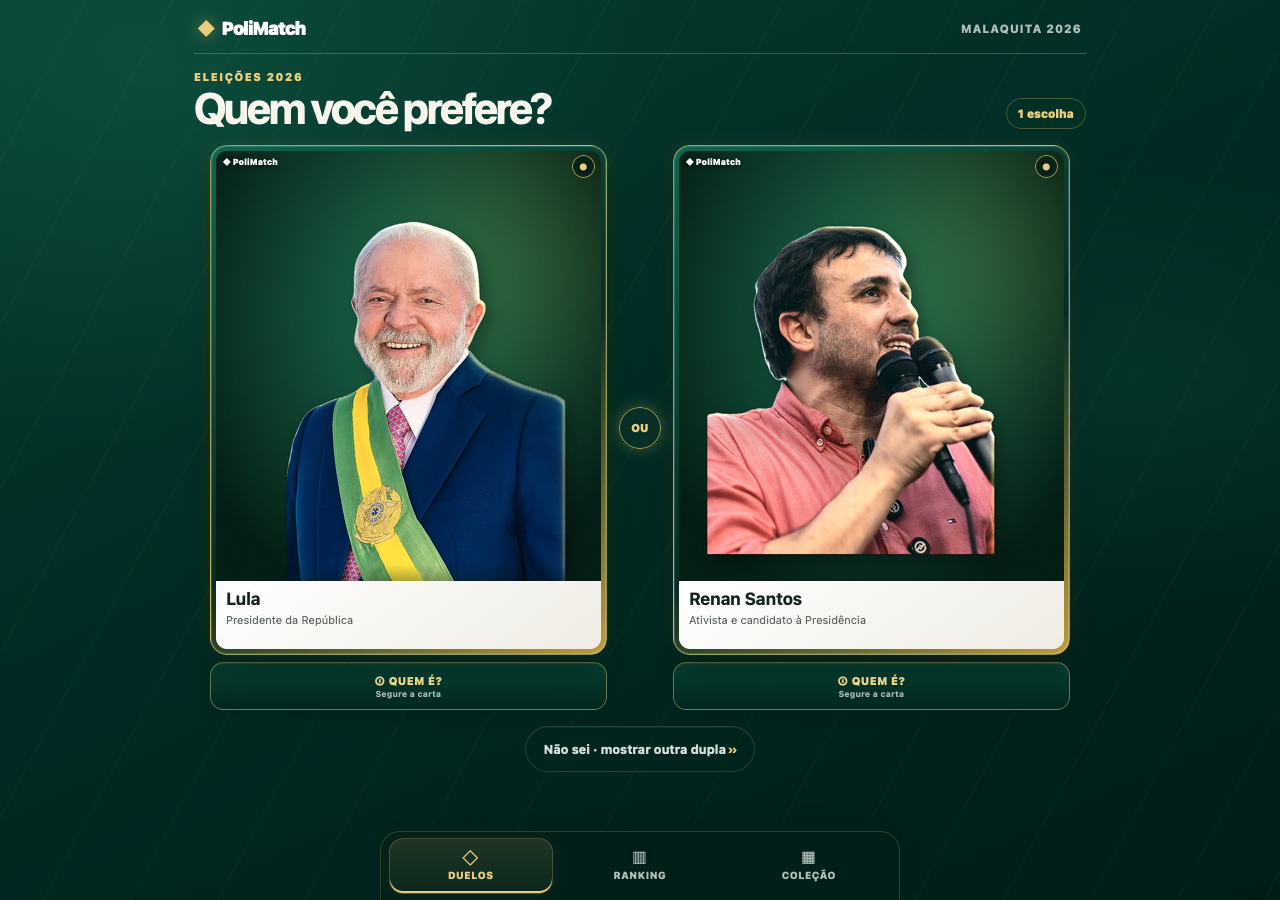
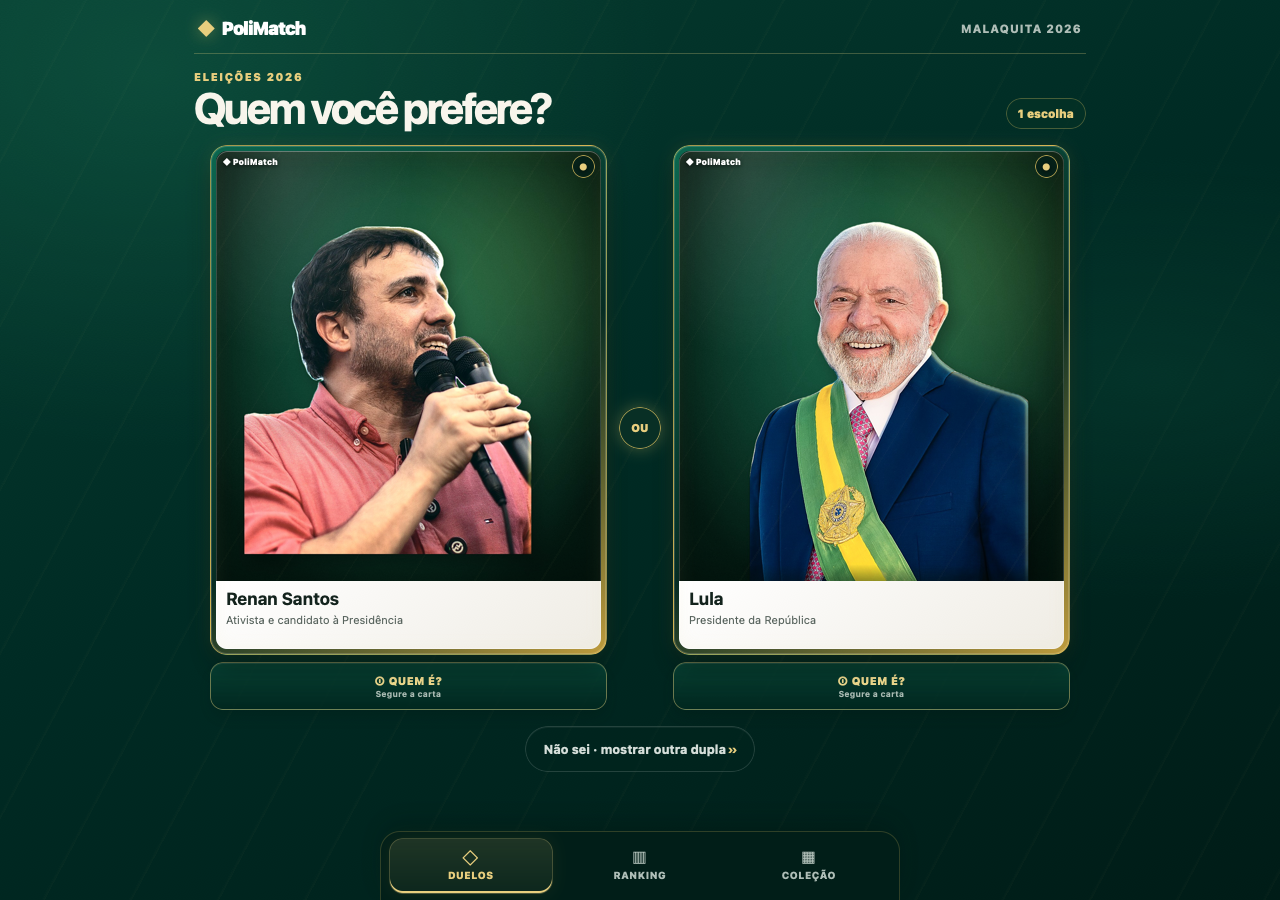
style: integrar retrato com atmosfera e verniz

diff --git a/app/src/styles.css b/app/src/styles.css
@@ -77,17 +77,22 @@ h1 { margin-bottom: 8px; font-size: clamp(2rem, 8vw, 2.8rem); line-height: 1; le
 .candidate-card.is-selected { transform: translateY(-4px) scale(1.015); border-color: #ffe88d; box-shadow: 0 20px 44px rgb(0 10 7 / 52%), 0 0 34px rgb(255 218 92 / 48%); }
 .candidate-card:disabled { cursor: wait; filter: saturate(.7) brightness(.82); transform: scale(.985); }
 .candidate-card.is-selected:disabled { filter: saturate(1.08) brightness(1.02); transform: translateY(-4px) scale(1.015); }
-.candidate-card::after { content: ""; position: absolute; inset: 5px; pointer-events: none; border: 1px solid rgb(255 255 255 / 18%); border-radius: 12px; }
-.card-brand, .card-rarity { position: absolute; z-index: 2; top: 11px; color: white; font-size: .52rem; font-weight: 900; text-shadow: 0 1px 5px rgb(0 0 0 / 70%); }
+.candidate-card::before { content: ""; position: absolute; z-index: 4; inset: 5px; pointer-events: none; border-radius: 12px; background: linear-gradient(112deg, transparent 4% 35%, rgb(255 255 255 / 3%) 39%, rgb(255 246 203 / 18%) 44%, rgb(255 255 255 / 4%) 49%, transparent 56% 100%), radial-gradient(ellipse at 18% 4%, rgb(255 255 255 / 18%), transparent 28%), repeating-linear-gradient(122deg, transparent 0 54px, rgb(232 206 126 / 2.8%) 55px 56px); background-position: 135% 0, 0 0, 0 0; background-size: 235% 100%, auto, auto; box-shadow: inset 0 1px rgb(255 255 255 / 24%), inset 0 -1px rgb(255 255 255 / 8%); opacity: .72; mix-blend-mode: screen; transition: background-position 500ms cubic-bezier(.22, 1, .36, 1), opacity 180ms ease; }
+.candidate-card:hover::before, .candidate-card.is-peeking::before { background-position: -20% 0, 0 0, 0 0; opacity: .9; }
+.candidate-card.is-selected::before { animation: varnish-confirm 640ms ease-out; }
+.candidate-card::after { content: ""; position: absolute; z-index: 5; inset: 5px; pointer-events: none; border: 1px solid rgb(255 255 255 / 18%); border-radius: 12px; box-shadow: inset 0 0 18px rgb(232 206 126 / 7%); }
+.card-brand, .card-rarity { position: absolute; z-index: 6; top: 11px; color: white; font-size: .52rem; font-weight: 900; text-shadow: 0 1px 5px rgb(0 0 0 / 70%); }
 .card-brand { left: 12px; }
 .card-rarity { right: 11px; width: 23px; height: 23px; display: grid; place-items: center; top: 9px; border: 1px solid rgb(231 199 98 / 75%); border-radius: 50%; color: var(--gold); background: rgb(2 31 24 / 78%); }
 .portrait { position: relative; min-height: 0; aspect-ratio: 4 / 5; overflow: hidden; display: grid; place-items: center; border-radius: 11px 11px 0 0; background: radial-gradient(circle at 50% 30%, #2f8d70, #063d30 72%); }
 .candidate-card .portrait { aspect-ratio: auto; }
+.candidate-card .portrait::after { content: ""; position: absolute; z-index: 2; inset: 0; pointer-events: none; background: radial-gradient(ellipse at 50% 48%, transparent 28%, rgb(2 55 41 / 7%) 50%, rgb(1 36 28 / 42%) 100%), linear-gradient(145deg, rgb(239 211 119 / 13%), transparent 27% 68%, rgb(0 25 19 / 24%)), repeating-linear-gradient(126deg, transparent 0 76px, rgb(232 206 126 / 3%) 77px 78px); box-shadow: inset 0 0 44px rgb(0 34 26 / 34%), inset 0 -22px 36px rgb(0 30 23 / 18%); mix-blend-mode: soft-light; }
 .portrait img { position: absolute; inset: 0; z-index: 1; width: 100%; height: 100%; display: block; object-fit: cover; object-position: center top; }
 .portrait-fallback { position: absolute; inset: 0; display: grid; place-items: center; font-size: clamp(2rem, 10vw, 4rem); font-weight: 950; color: rgb(255 255 255 / 50%); }
 .candidate-copy { position: relative; z-index: 1; display: block; min-height: 0; padding: 9px 10px; border-radius: 0 0 11px 11px; background: linear-gradient(145deg, #fff, #efece4); }
 .candidate-copy strong { display: block; font-size: clamp(.85rem, 3.5vw, 1.08rem); line-height: 1.05; }
 .candidate-copy span { display: block; margin-top: 5px; color: #58645e; font-size: .69rem; line-height: 1.3; }
+@keyframes varnish-confirm { 0% { background-position: 150% 0, 0 0, 0 0; opacity: .68; } 46% { opacity: 1; } 100% { background-position: -30% 0, 0 0, 0 0; opacity: .78; } }
 .profile-button { min-height: 48px; padding: 7px 8px; border: 1px solid rgb(232 206 126 / 46%); border-radius: 13px; background: linear-gradient(180deg, rgb(8 72 56 / 78%), rgb(1 39 31 / 88%)); color: #f6df91; box-shadow: inset 0 1px rgb(255 255 255 / 9%), 0 8px 18px rgb(0 17 13 / 18%); font-size: .68rem; font-weight: 900; letter-spacing: .04em; text-transform: uppercase; cursor: pointer; }
 .profile-button:hover { border-color: rgb(249 228 152 / 72%); box-shadow: inset 0 1px rgb(255 255 255 / 12%), 0 8px 22px rgb(0 17 13 / 24%), 0 0 14px rgb(212 175 55 / 10%); }
 .profile-button small { display: block; margin-top: 2px; color: #aabbb3; font-size: .52rem; font-weight: 700; letter-spacing: .02em; text-transform: none; }

diff --git a/stages/10_rebuild_eleicoes_2026/output/HANDOFF.md b/stages/10_rebuild_eleicoes_2026/output/HANDOFF.md
@@ -37,6 +37,7 @@ Estado: versão de teste aprovada para publicação
 - O pacote de 125 fotos tratadas foi auditado: dimensões e arquivos estão íntegros, mas o relatório contém 17 revisões manuais, 20 flags técnicas e 19 flags de licença.
 - Somente 82 retratos sem qualquer flag foram integrados à prévia; 43 permanecem em fallback para impedir publicação acidental de pessoa errada, baixa qualidade ou licença pendente.
 - O duelo móvel foi reorganizado em duas cartas grandes empilhadas; em desktop, as duas cartas permanecem grandes e lado a lado.
+- Cada carta recebeu uma camada atmosférica entre retrato e moldura, integrando as bordas à malaquita, e uma última camada de verniz que cobre foto, placa e estrutura com reflexo controlado.
 - Capturas de QA em WebKit foram preservadas em `mobile-stacked-photo-qa.png` e `desktop-photo-qa.png`.
 - O primeiro preview de dez retratos em caricatura editorial foi registrado como direção operacional, aguardando os arquivos individuais.
 - O primeiro acesso ao duelo agora apresenta uma explicação curta e descontraída; depois de concluída, ela não reaparece no mesmo navegador.
